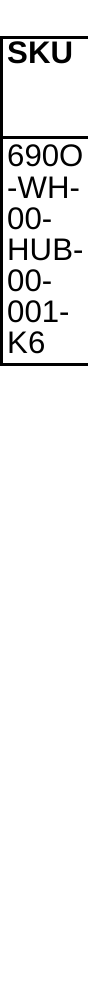
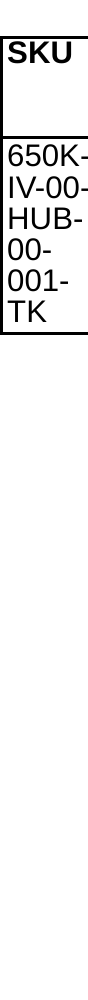
update

Changed region(s): [[0.0909, 0.124, 0.9318, 0.372], [0.6818, 0.31, 0.7727, 0.341], [0.0, 0.31, 0.0455, 0.372]]

diff --git a/py19.py b/py19.py
@@ -110,13 +110,11 @@ def cut2(filepath):
         pattern = r'\b[A-Za-z0-9]{4}\s*-\s*[A-Za-z]{2}\s*-\s*\d{2}\b'
 
         clean_text = skuss.replace('\n', ' ').replace('\r', ' ')
-        clean_text = clean_text.replace('6900', '690O')
-        clean_text = clean_text.replace('1V', 'IV')
-        clean_text = clean_text.replace('3501', '350I')
 
+        corrected_list = correct_sku(clean_text)
+        corrected_text = ' '.join(corrected_list)
 
-
-        skusss = re.findall(pattern, clean_text)
+        skusss = re.findall(pattern, corrected_text)
 
         if not skusss:
             rs = skuss
@@ -130,6 +128,42 @@ def cut2(filepath):
             
     return(array)   
 
+
+def correct_sku(raw_text):
+    """
+    Tìm và sửa mã SKU có dạng NNNL-LL-NN, xử lý lỗi OCR giữa 0/O và 1/I.
+    """
+    # Regex tìm dạng mã SKU: 4 ký tự đầu, 2 chữ, 2 số
+    pattern = r'\b([A-Z0-9]{4})-([A-Z0-9]{2})-(\d{2})\b'
+    matches = re.findall(pattern, raw_text)
+
+    corrected = []
+
+    for part1, part2, part3 in matches:
+        # Phần 1: 3 số đầu + 1 chữ cái
+        digits = part1[:3]
+        letter = part1[3]
+
+        # Sửa phần số đầu: nếu chứa chữ → đổi ngược về số
+        digits = digits.replace('I', '1').replace('O', '0')
+
+        # Sửa ký tự thứ 4: nếu là số → đổi thành chữ
+        if letter == '1':
+            letter = 'I'
+        elif letter == '0':
+            letter = 'O'
+
+        # Phần giữa (chữ): sửa số thành chữ
+        part2 = part2.replace('1', 'I').replace('0', 'O')
+
+        # Phần cuối (số): sửa chữ thành số
+        part3 = part3.replace('I', '1').replace('O', '0')
+
+        corrected_sku = f"{digits}{letter}-{part2}-{part3}"
+        corrected.append(corrected_sku)
+
+    return corrected
+
 def cut3(filepath):
     # Đường dẫn đến file PDF
     pdf_path = filepath
@@ -138,7 +172,7 @@ def cut3(filepath):
     
       # Đường dẫn đến file PDF
     pdf_path = filepath
-    i=48
+    i=35
     indexpage = i+1
     # Bước 1: Đọc chỉ trang 116 (số bắt đầu từ 1)
     pages = convert_from_path(pdf_path, dpi=300, first_page=indexpage, last_page=indexpage)
@@ -157,7 +191,7 @@ def cut3(filepath):
 
     cv2.imwrite("cropped_page116.png", cropped)
 
-    text = pytesseract.image_to_string(cropped, config='--oem 3 --psm 6', lang="eng")
+    text = pytesseract.image_to_string(cropped, config=r'-l eng --oem 3 --psm 6')
 
     skuss = re.sub(r"[^a-zA-Z0-9\- ]", "", text)
 
@@ -168,19 +202,18 @@ def cut3(filepath):
     pattern = r'\b[A-Za-z0-9]{4}\s*-\s*[A-Za-z]{2}\s*-\s*\d{2}\b'
 
     clean_text = skuss.replace('\n', ' ').replace('\r', ' ')
-    clean_text = clean_text.replace('6900', '690O')
-    clean_text = clean_text.replace('1V', 'IV')
 
-    skusss = re.findall(pattern, clean_text)
+    corrected_list = correct_sku(clean_text)
+    corrected_text = ' '.join(corrected_list)
+
+    skusss = re.findall(pattern, corrected_text)
 
     if not skusss:
-        skuss = skuss.replace('1V', 'IV')
+        # skuss = skuss.replace('1V', 'IV')
         
         rs = skuss
     else: 
 
-       
-        
         rs = skusss
     return rs
 
@@ -202,8 +235,12 @@ def sku(output_file):
     custom_config = r'--oem 3 --psm 6'
 
     result = pytesseract.image_to_string(img, config=custom_config)
-    return result 
-array = cut2(input_file)
+    return result
+
+# cr = correct_sku('6900-A1-01-ABB-00-01')   
+
+array  = cut2(input_file)
+
 
 # cut(input_file, output_file,116)  
 # skus = sku(output_file) 
@@ -270,5 +307,4 @@ key_name = "orders:data_sku_1"
 orders_json = json.dumps(array)
 r.set(key_name, orders_json)
 
-# print(orders_json)
 
